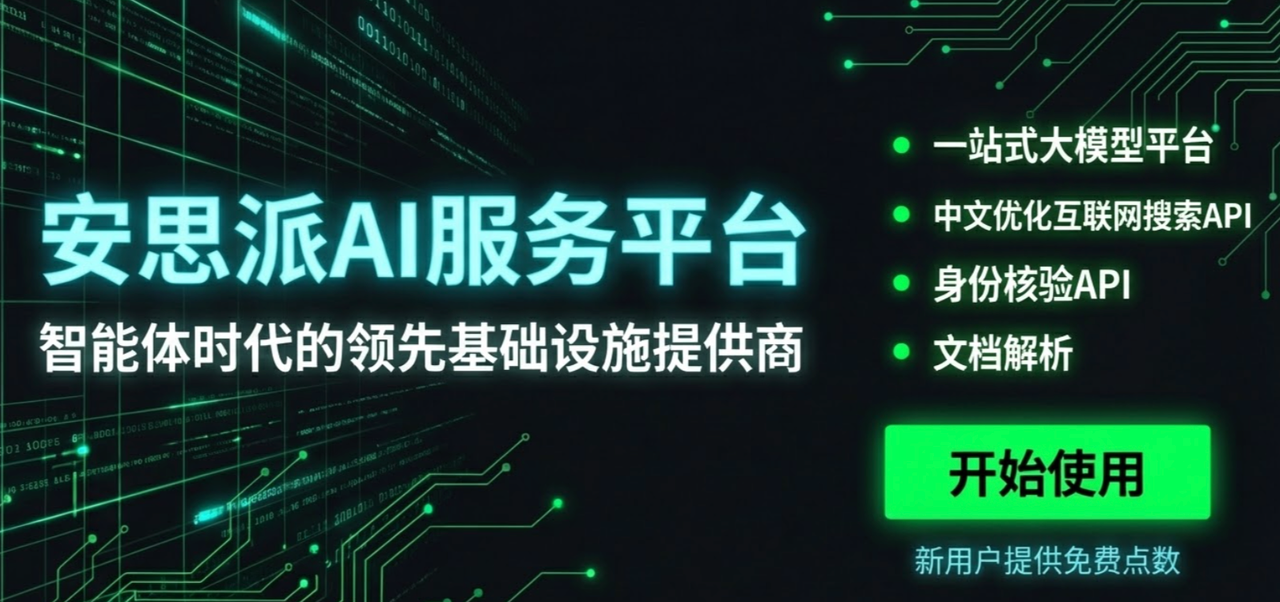
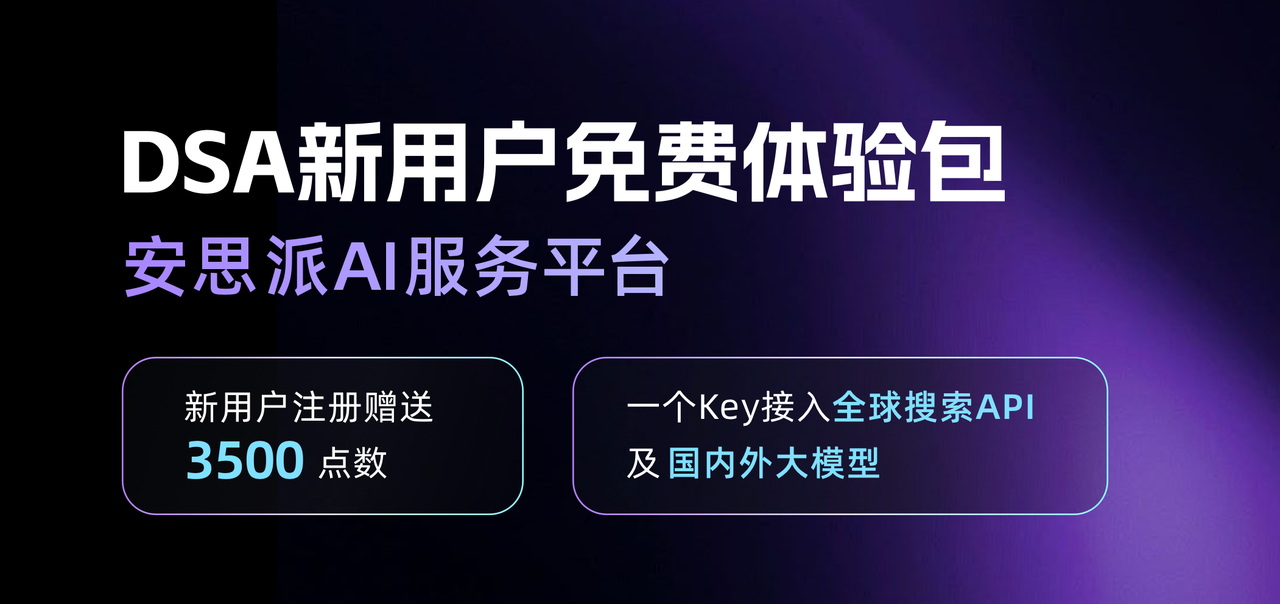
update anspire info (#1915)

Pull request: update anspire info
<!--
For Chinese contributors: 请直接用中文填写。
For English contributors: please fill in English. All fields marked (EN) accept English.
-->

## PR Type

- [ ] fix
- [ ] feat
- [ ] refactor
- [x] docs
- [ ] chore
- [ ] test

## Background And Problem

本次仅做文档内容更新、更换了anspire 的活动内容，不修改任何业务代码、程序逻辑，不会影响项目运行、CI 流程与线上功能。

## Scope Of Change

修改2个文件 : 

- 文档更新文件（`docs/*`）：
README.md
docs/assets/anspire.png
- 文件总数 / 变更行数
 README.md               |   4 ++--
 docs/assets/anspire.png | Bin 793502 -> 337714 bytes
 2 files changed, 2 insertions(+), 2 deletions(-)


## Issue Link
无关联 Issue

## Verification Commands And Results
本地打开README文件预览，校验文案排版、图片链接可正常访问渲染
本次未修改业务代码、配置、脚本，无需执行单元测试、编译、服务启动类命令

## Visual Evidence (if applicable)
本次仅更新项目根目录下的 README 文档与静态展示图片，未涉及 Web 前端、报表渲染、系统设置类代码变更，无需前端可视化验证。

## Compatibility And Risk
None

## Rollback Plan
执行revert this PR即可完成全部变更回滚，删除本次 README 修改与图片，无需额外配置回滚、数据迁移、服务重启操作。

## EXTRACT_PROMPT Change (if applicable)
无变更内容

## Checklist

- [x] 本 PR 有明确动机和业务价值 / This PR has a clear motivation and value
- [x] 已提供可复现的验证命令与结果 / Reproducible verification commands and results are included
- [x] 已评估兼容性与风险 / Compatibility and risk have been assessed
- [x] 已提供回滚方案 / A rollback plan is provided
[…]

diff --git a/README.md b/README.md
@@ -81,7 +81,7 @@
 
 | Secret 名称 | 说明 | 必填 |
 |------------|------|:----:|
-| `ANSPIRE_API_KEYS` | [Anspire](https://open.anspire.cn/?share_code=QFBC0FYC) API Key，一Key同时启用全球热门大模型和联网搜索，无需科学上网，含免费额度 | **推荐** |
+| `ANSPIRE_API_KEYS` | [Anspire](https://open.anspire.cn/?share_code=QFBC0FYC) API Key，一Key同时启用全球热门大模型和联网搜索，本项目新用户提供35元等额的免费额度（GLM5.2、GPT等模型特惠中） | **推荐** |
 | `AIHUBMIX_KEY` | [AIHubMix](https://aihubmix.com/?aff=CfMq) API Key，一Key切换使用全系模型，无需科学上网，本项目可享 10% 优惠 | **推荐** |
 | `GEMINI_API_KEY` | Google Gemini API Key | 可选 |
 | `ANTHROPIC_API_KEY` | Anthropic Claude API Key | 可选 |
@@ -115,7 +115,7 @@
 
 | Secret 名称 | 说明 | 必填 |
 |------------|------|:----:|
-| `ANSPIRE_API_KEYS` | [Anspire AI Search](https://aisearch.anspire.cn/)：中文内容特别优化，适合 A 股新闻和舆情检索；同一 Key 可复用为 Anspire 大模型 | **推荐** |
+| `ANSPIRE_API_KEYS` | [Anspire AI Search](https://aisearch.anspire.cn/)：汇聚全球舆情信息，适配A股、美股、港股等新闻和舆情检索；同一Key可复用大模型服务，本项目新用户提供免费35元等额的免费点数 | **推荐** |
 | `SERPAPI_API_KEYS` | [SerpAPI](https://serpapi.com/baidu-search-api?utm_source=github_daily_stock_analysis)：搜索引擎结果补强，适合实时金融新闻 | **推荐** |
 | `TAVILY_API_KEYS` | [Tavily](https://tavily.com/)：通用新闻搜索 API | 可选 |
 | `BOCHA_API_KEYS` | [博查搜索](https://open.bocha.cn/)：中文搜索优化，支持 AI 摘要 | 可选 |